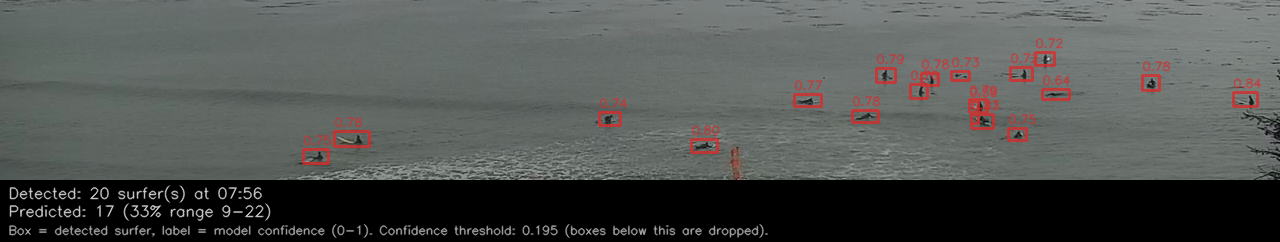
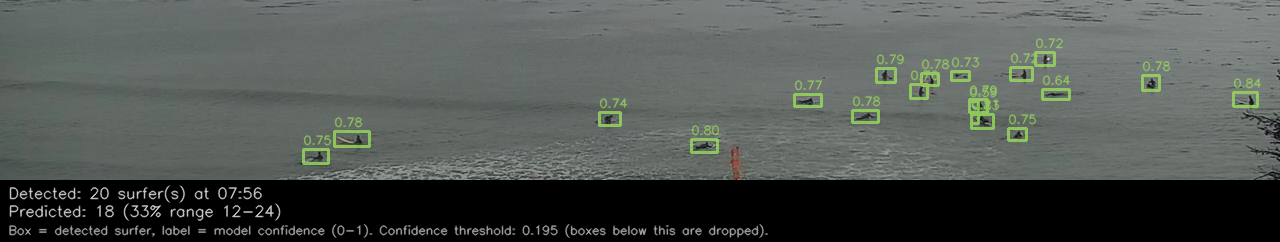
Forecast tomorrow by default; detection boxes/labels lime green
Default (no --date) run now forecasts tomorrow instead of re-showing
today's own remaining hours, while the detection image stays decoupled
and always uses today's own ~8am crop. Refactored per-hour quantile
prediction into predict_for_hour()/predict_nearest_hour() so the
detection image's "Predicted: ..." text is computed for its own hour
directly rather than matched from the (now possibly different-dated)
forecast chart's DataFrame. Detection boxes/labels changed from red to
lime green, same 0.75 alpha transparency as before.

Claude-Session: https://claude.ai/code/session_01C2GCpQELsJRUSZjSZDcA3i

diff --git a/code/plot_daily_prediction.py b/code/plot_daily_prediction.py
@@ -16,8 +16,14 @@ trained model; the detection image needs today's own clip, which the
 clip-collection cron already downloads separately).
 
 Usage:
-    python code/plot_daily_prediction.py                # today
-    python code/plot_daily_prediction.py --date 2026-08-29
+    python code/plot_daily_prediction.py                # forecast for tomorrow, detection image from today
+    python code/plot_daily_prediction.py --date 2026-08-29   # forecast + detection both pinned to one date
+
+By default (no --date) the forecast chart/table target tomorrow (so the
+evening cron run shows tomorrow's forecast, not a same-day one running out
+of remaining hours) while the detection image still uses today's own ~8am
+crop — the two dates are independent unless --date pins both to the same
+day (e.g. for backfill/testing a specific past date).
 """
 
 import argparse
@@ -102,7 +108,14 @@ def parse_args():
 
 def main():
     args = parse_args()
-    target_date = datetime.strptime(args.date, "%Y-%m-%d").date() if args.date else datetime.now().date()
+    if args.date:
+        target_date = datetime.strptime(args.date, "%Y-%m-%d").date()
+        detection_date = target_date
+    else:
+        today = datetime.now().date()
+        target_date = today + timedelta(days=1)
+        detection_date = today
+    print(f"Forecast target date: {target_date} | Detection image date: {detection_date}")
 
     X, y, df, numeric_cols = load_and_prepare()
     weather_categories = set(df["weather_simple"].unique())
@@ -125,16 +138,15 @@ def main():
 
     by_hour = sp.build_predictor_map()
     local_tz = pytz.timezone(gc.LOCATION["timezone"])
-    dawn, dusk = gc.get_light_window(target_date, local_tz)
-    print(f"Real dawn/dusk for {target_date}: {dawn.strftime('%-I:%M %p')} - {dusk.strftime('%-I:%M %p')}")
-    day_hours = sorted(hk for hk in by_hour if hk.date() == target_date and dawn.hour <= hk.hour <= dusk.hour)
-    if not day_hours:
-        print(f"No forecast data available for {target_date} (outside the live today+tomorrow window).")
-        return
 
-    records = []
-    for hk in day_hours:
-        predictors = by_hour[hk]
+    def predict_for_hour(hk):
+        """Runs the fitted quantile models for one by_hour key. Shared by the
+        chart's day loop and the detection image's own-hour lookup below, so a
+        prediction for any hour in by_hour (today OR tomorrow, since DAYS=2)
+        is always computed the same way regardless of which date it's for."""
+        predictors = by_hour.get(hk)
+        if predictors is None:
+            return None
         feat_row = build_feature_row(hk, predictors, numeric_cols, weather_categories,
                                       train_mean, train_std, X_std.columns)
         q17 = max(0.0, float(q17_model.predict(feat_row)[0]))
@@ -150,11 +162,29 @@ def main():
         tide_ft = float(predictors.get("tide_ft", 0) or 0)
         energy_nearshore_kj = float(predictors.get("energy_nearshore_kj", 0) or 0)
         in_training_range = TRAINED_HOUR_MIN <= hk.hour <= TRAINED_HOUR_MAX
-        records.append(dict(hour=hk, point=point, q17=q17, q335=q335, q665=q665, q83=q83,
-                             weather_simple=weather_simple, is_night=is_night,
-                             tide_ft=tide_ft, energy_nearshore_kj=energy_nearshore_kj,
-                             in_training_range=in_training_range))
+        return dict(hour=hk, point=point, q17=q17, q335=q335, q665=q665, q83=q83,
+                    weather_simple=weather_simple, is_night=is_night,
+                    tide_ft=tide_ft, energy_nearshore_kj=energy_nearshore_kj,
+                    in_training_range=in_training_range)
 
+    def predict_nearest_hour(date_, hour, minute):
+        """Finds the by_hour key on date_ closest to hour:minute and predicts
+        for it — used for the detection image, whose crop time (e.g. 7:56)
+        won't exactly match an on-the-hour by_hour key."""
+        candidates = [hk for hk in by_hour if hk.date() == date_]
+        if not candidates:
+            return None
+        nearest = min(candidates, key=lambda hk: abs((hk.hour * 60 + hk.minute) - (hour * 60 + minute)))
+        return predict_for_hour(nearest)
+
+    dawn, dusk = gc.get_light_window(target_date, local_tz)
+    print(f"Real dawn/dusk for {target_date}: {dawn.strftime('%-I:%M %p')} - {dusk.strftime('%-I:%M %p')}")
+    day_hours = sorted(hk for hk in by_hour if hk.date() == target_date and dawn.hour <= hk.hour <= dusk.hour)
+    if not day_hours:
+        print(f"No forecast data available for {target_date} (outside the live today+tomorrow window).")
+        return
+
+    records = [r for r in (predict_for_hour(hk) for hk in day_hours) if r is not None]
     d = pd.DataFrame(records)
 
     fig = plt.figure(figsize=(14, 6.5), facecolor=BG_COLOR)
@@ -294,7 +324,7 @@ def main():
     latest_path = CHARTS_DIR / "latest.png"
     fig.savefig(latest_path, dpi=150, facecolor=fig.get_facecolor())
 
-    detection_capture = generate_detection_image(target_date, d)
+    detection_capture = generate_detection_image(detection_date, predict_nearest_hour)
     update_readme(target_date, detection_capture)
 
 
@@ -316,15 +346,17 @@ def find_nearest_hour_crop(target_date, target_hour=8):
     return None
 
 
-def generate_detection_image(target_date, day_predictions_df):
-    """Draws real detection boxes + confidence labels on the day's ~8am crop (the
-    actual production tiling/NMS/false-positive-filter pipeline via
+def generate_detection_image(detection_date, predict_nearest_hour):
+    """Draws real detection boxes + confidence labels on detection_date's ~8am
+    crop (the actual production tiling/NMS/false-positive-filter pipeline via
     detect_surfers.run_inference_with_boxes — not a simplified re-implementation),
-    with the model's predicted range/median for that same hour overlaid as text.
-    Skipped (not an error) if today's ~8am clip hasn't been captured/processed yet."""
-    row = find_nearest_hour_crop(target_date, target_hour=8)
+    with the model's own predicted range/median for that same hour (via
+    predict_nearest_hour, independent of whatever date the forecast chart is
+    for) overlaid as text. Skipped (not an error) if detection_date's ~8am
+    clip hasn't been captured/processed yet."""
+    row = find_nearest_hour_crop(detection_date, target_hour=8)
     if row is None:
-        print(f"No usable ~8am crop for {target_date} yet — skipping detection image.")
+        print(f"No usable ~8am crop for {detection_date} yet — skipping detection image.")
         return None
 
     img_path = ds.CROPS_DIR / row["filename"]
@@ -335,7 +367,7 @@ def generate_detection_image(target_date, day_predictions_df):
     # Draw boxes/labels on a copy, then alpha-blend back so they read as
     # translucent overlays rather than opaque marks on the surf photo.
     overlay = img.copy()
-    BOX_COLOR = (40, 40, 220)  # BGR — red
+    BOX_COLOR = (90, 227, 157)  # BGR — lime green (matches LIME "#9de35a")
     for x1, y1, x2, y2, conf in boxes:
         p1, p2 = (int(x1), int(y1)), (int(x2), int(y2))
         cv2.rectangle(overlay, p1, p2, BOX_COLOR, 2)
@@ -344,15 +376,13 @@ def generate_detection_image(target_date, day_predictions_df):
     BOX_ALPHA = 0.75
     img = cv2.addWeighted(overlay, BOX_ALPHA, img, 1 - BOX_ALPHA, 0)
 
-    # Model's predicted range/median for this exact hour, if it's in the already-
-    # computed day_predictions_df (it normally will be, since 8am is within the
-    # dawn-dusk window) — falls back to "not available" text rather than silently
-    # omitting it or computing something inconsistent from a different data source.
-    hh = int(row["time_local"].split(":")[0])
-    match = day_predictions_df[day_predictions_df["hour"].dt.hour == hh]
-    if len(match):
-        m = match.iloc[0]
-        pred_text = f"Predicted: {m['point']:.0f} (33% range {m['q335']:.0f}-{m['q665']:.0f})"
+    # Model's predicted range/median for this exact hour — looked up directly
+    # (not from a chart-date-scoped table), so it's correct even when the
+    # forecast chart is for a different date (e.g. tomorrow) than this image.
+    hh, mm = map(int, row["time_local"].split(":"))
+    pred_row = predict_nearest_hour(detection_date, hh, mm)
+    if pred_row is not None:
+        pred_text = f"Predicted: {pred_row['point']:.0f} (33% range {pred_row['q335']:.0f}-{pred_row['q665']:.0f})"
     else:
         pred_text = "Predicted range/median: not available for this hour"
 
@@ -371,7 +401,7 @@ def generate_detection_image(target_date, day_predictions_df):
     cv2.putText(canvas, pred_text, (8, h + 36), cv2.FONT_HERSHEY_SIMPLEX, 0.5, (211, 211, 211), 1, cv2.LINE_AA)
     cv2.putText(canvas, legend_text, (8, h + 54), cv2.FONT_HERSHEY_SIMPLEX, 0.4, (170, 170, 170), 1, cv2.LINE_AA)
 
-    dated_path = CHARTS_DIR / f"detection_{target_date.isoformat()}.png"
+    dated_path = CHARTS_DIR / f"detection_{detection_date.isoformat()}.png"
     cv2.imwrite(str(dated_path), canvas)
     latest_path = CHARTS_DIR / "latest_detection.png"
     cv2.imwrite(str(latest_path), canvas)

diff --git a/docs/PROJECT_HISTORY.md b/docs/PROJECT_HISTORY.md
@@ -1166,3 +1166,30 @@ dropping rows with missing numeric features):
   humidity/cloud cover is a real but minor signal in comparison; tide and
   day-of-week are the actual primary drivers of surfer count at this spot
   (Jack's, 38th St, Pleasure Point).
+
+### Daily chart now forecasts tomorrow by default; detection image decoupled from forecast date (2026-08-28)
+
+`plot_daily_prediction.py` previously defaulted `target_date` to *today*,
+so the 7pm cron run just re-showed today's own forecast for its remaining
+hours instead of anything forward-looking. Changed the no-`--date` default
+to `today + 1 day` for the forecast chart/table, while the detection image
+still always uses today's own ~8am crop (`detection_date`, independent of
+the forecast date) — the two were previously the same `target_date`
+parameter, which meant shifting the forecast date to tomorrow would have
+broken the detection image (no crop exists yet for a future date).
+`--date` still pins both to the same explicit date, for backfill/testing.
+
+Refactored the per-hour quantile-model prediction into a shared
+`predict_for_hour()`/`predict_nearest_hour()` closure in `main()` so the
+detection image's "Predicted: ..." text is computed directly for its own
+hour via `by_hour` (which covers today+tomorrow, `DAYS=2`) rather than
+matched from the forecast chart's day-scoped DataFrame — the old matching
+logic would have silently used the wrong day's prediction once the two
+dates diverged. Verified live: forecast chart correctly shows tomorrow
+(Aug 29) with dawn/dusk computed for that date, detection image still
+shows today's (Aug 28) 7:56am crop with a "Predicted" figure now sourced
+from today's own hour instead of tomorrow's.
+
+Also changed detection-box/label color from red to lime green (`#9de35a`,
+matching the dark theme's tide-line/wave-energy-bar color), same 0.75
+alpha-blended transparency as before.

diff --git a/README.md b/README.md
@@ -9,7 +9,7 @@ This project downloads short clips around daylight hours, extracts 3 cropped fra
 
 ![Latest detection review](data/charts/latest_detection.png)
 
-## The Surfer Crowd Forecast for: Friday, August 28, 2026
+## The Surfer Crowd Forecast for: Saturday, August 29, 2026
 
 ![Latest daily prediction chart](data/charts/latest.png)
 
